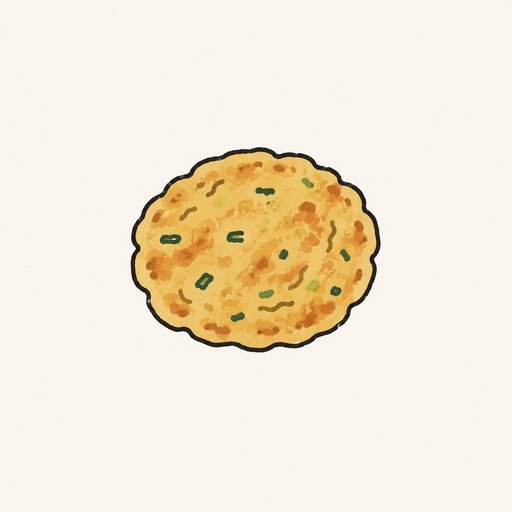
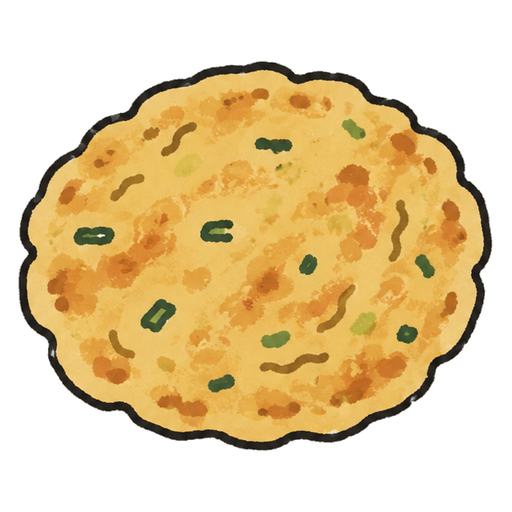
Add files via upload

diff --git a/ICONS_REPROCESSED.md b/ICONS_REPROCESSED.md
@@ -1,0 +1,47 @@
+# Reprocessed icons — transparent and tightly cropped
+
+## What was wrong
+
+Two separate problems with the files, both in the images rather than the code:
+
+**1. Baked-in backgrounds.** Each ChatGPT export had a solid cream background painted into the image — and crucially, a slightly *different* cream each time (rgb 243–249 across the set). Your page is a single ivory, so every icon showed as a faintly mismatched square. Your original `.webp` icons are transparent, which is why they sit cleanly.
+
+**2. Far too much empty space.** The subject occupied as little as **13.5%** of the canvas on some files — around 86% was padding. Since the app scales the whole image to fit the thumbnail slot, that padding got scaled too, leaving a tiny drawing in a large box.
+
+| Icon | Subject filled (before) | After |
+|---|---|---|
+| soft-eggs | 13.5% | 56% |
+| brown-soup / red-soup | 13.6% | 68% |
+| pajeon | 19.6% | 70% |
+| green-salad | 23.5% | 56% |
+| beef-soup | 26.7% | 75% |
+| maeuntang | 28.8% | 84% |
+| basque-cheesecake | 29.6% | 50% |
+| banh-xeo | 35.5% | 60% |
+| kkaenip-jeon | 35.8% | 62% |
+
+## What I did
+
+- **Removed the background to true transparency**, sampling the actual background colour per file rather than assuming one value.
+- **Feathered the edge** over a narrow range instead of a hard cutoff. A hard threshold leaves a jagged halo on hand-drawn linework; feathering keeps the wobbly pen edges looking drawn rather than cut out.
+- **Cropped to the artwork** and re-centred on a square transparent canvas with a slim 4% margin — so every icon scales consistently and none looks bigger or smaller than its neighbours.
+- Verified corner pixels are fully transparent (alpha 0) on all ten, and composited them against your ivory to confirm no halos or edge fringing.
+
+All ten are 512×512 PNG with alpha.
+
+## Deploy
+
+Replace all ten files in `icons/` — including the five you already uploaded, since those had the same background and padding issues:
+
+```bash
+cp *.png your-repo/icons/
+git add icons/
+git commit -m "Reprocess icons: transparent background, tight crop"
+git push
+```
+
+No code change needed — `index.html` is unchanged from the last version, and the filenames are identical, so the mapping still holds. You will likely need a hard refresh (Cmd/Ctrl-Shift-R) since the browser caches images by filename.
+
+## One note on the grid
+
+In your screenshot **Nuoc Cham** shows the `jar` icon (the mug) and **Vietnamese Coffee** shows `icedcoffee` — both are original `.webp` icons working as intended, not errors. If the jar reads oddly as a mug at thumbnail size, a dedicated sauce-bottle icon would be a nice future addition, but nothing is broken.
